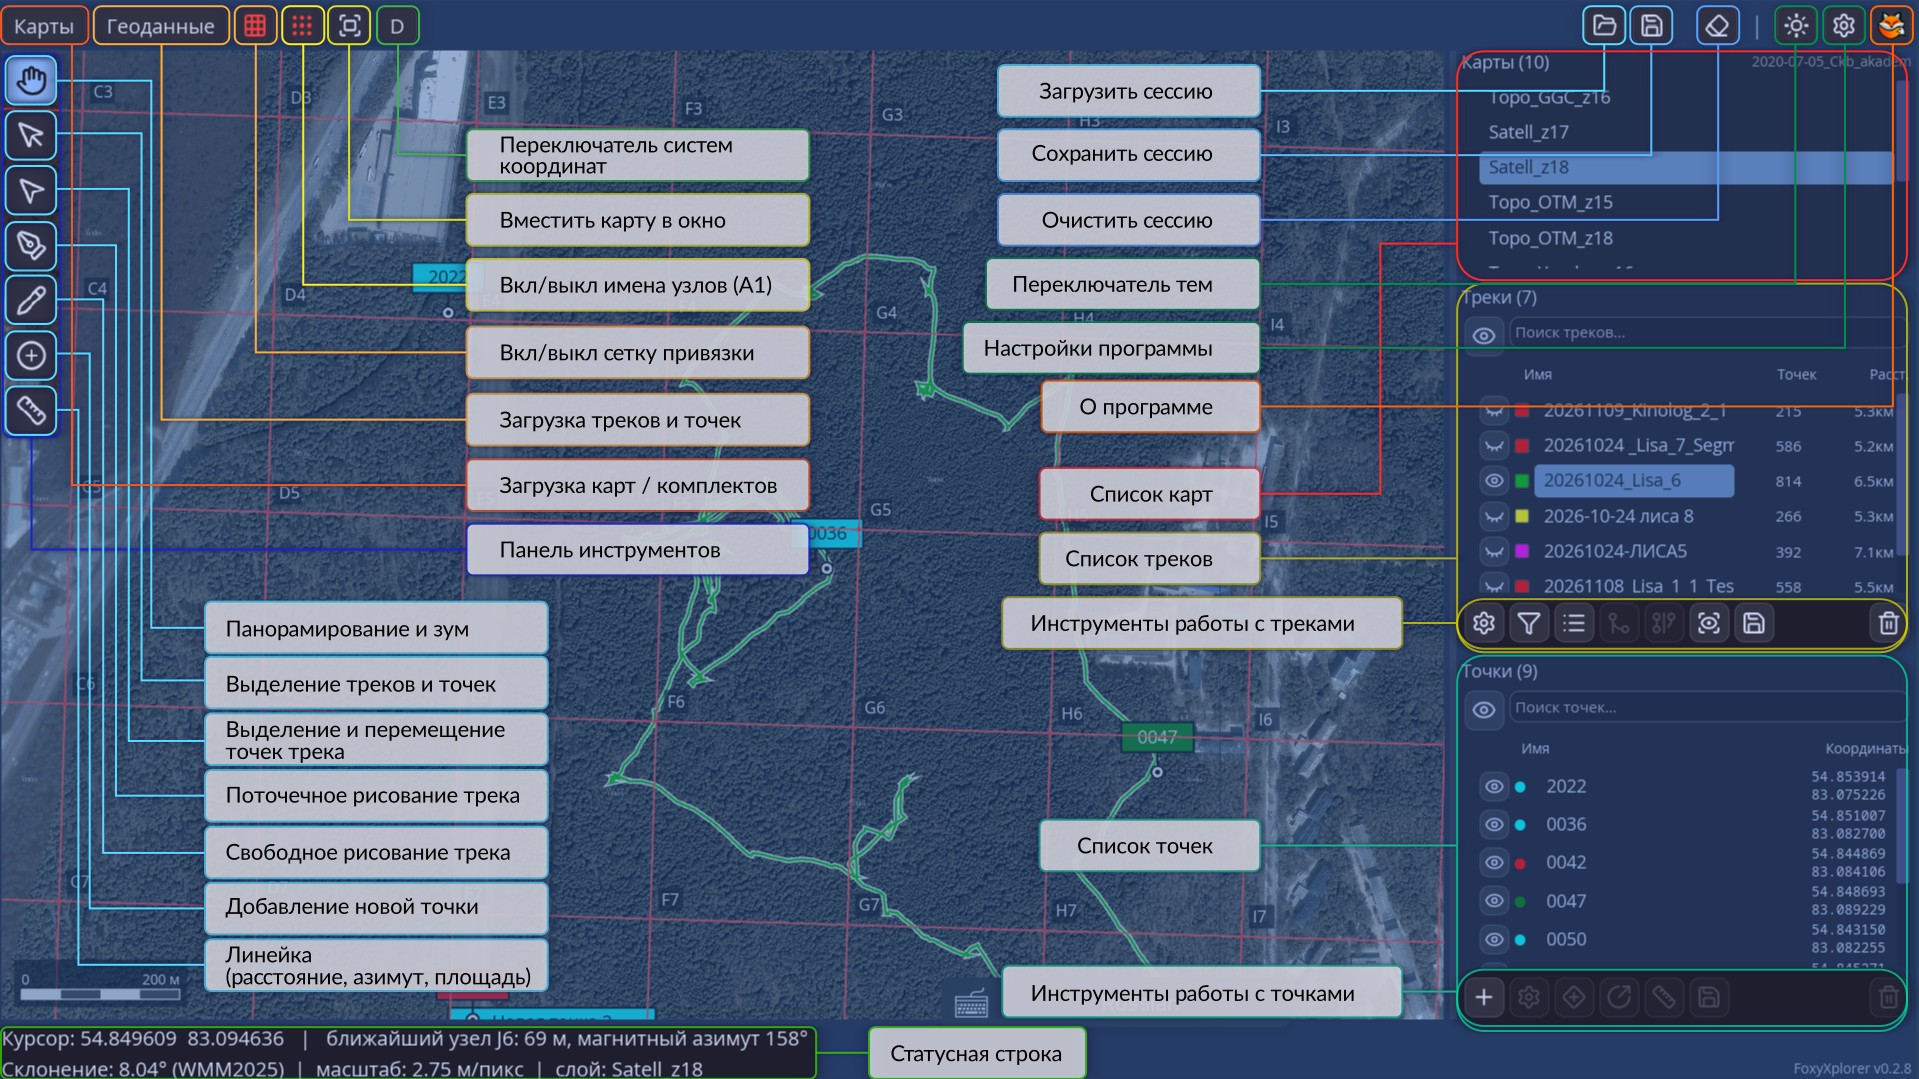
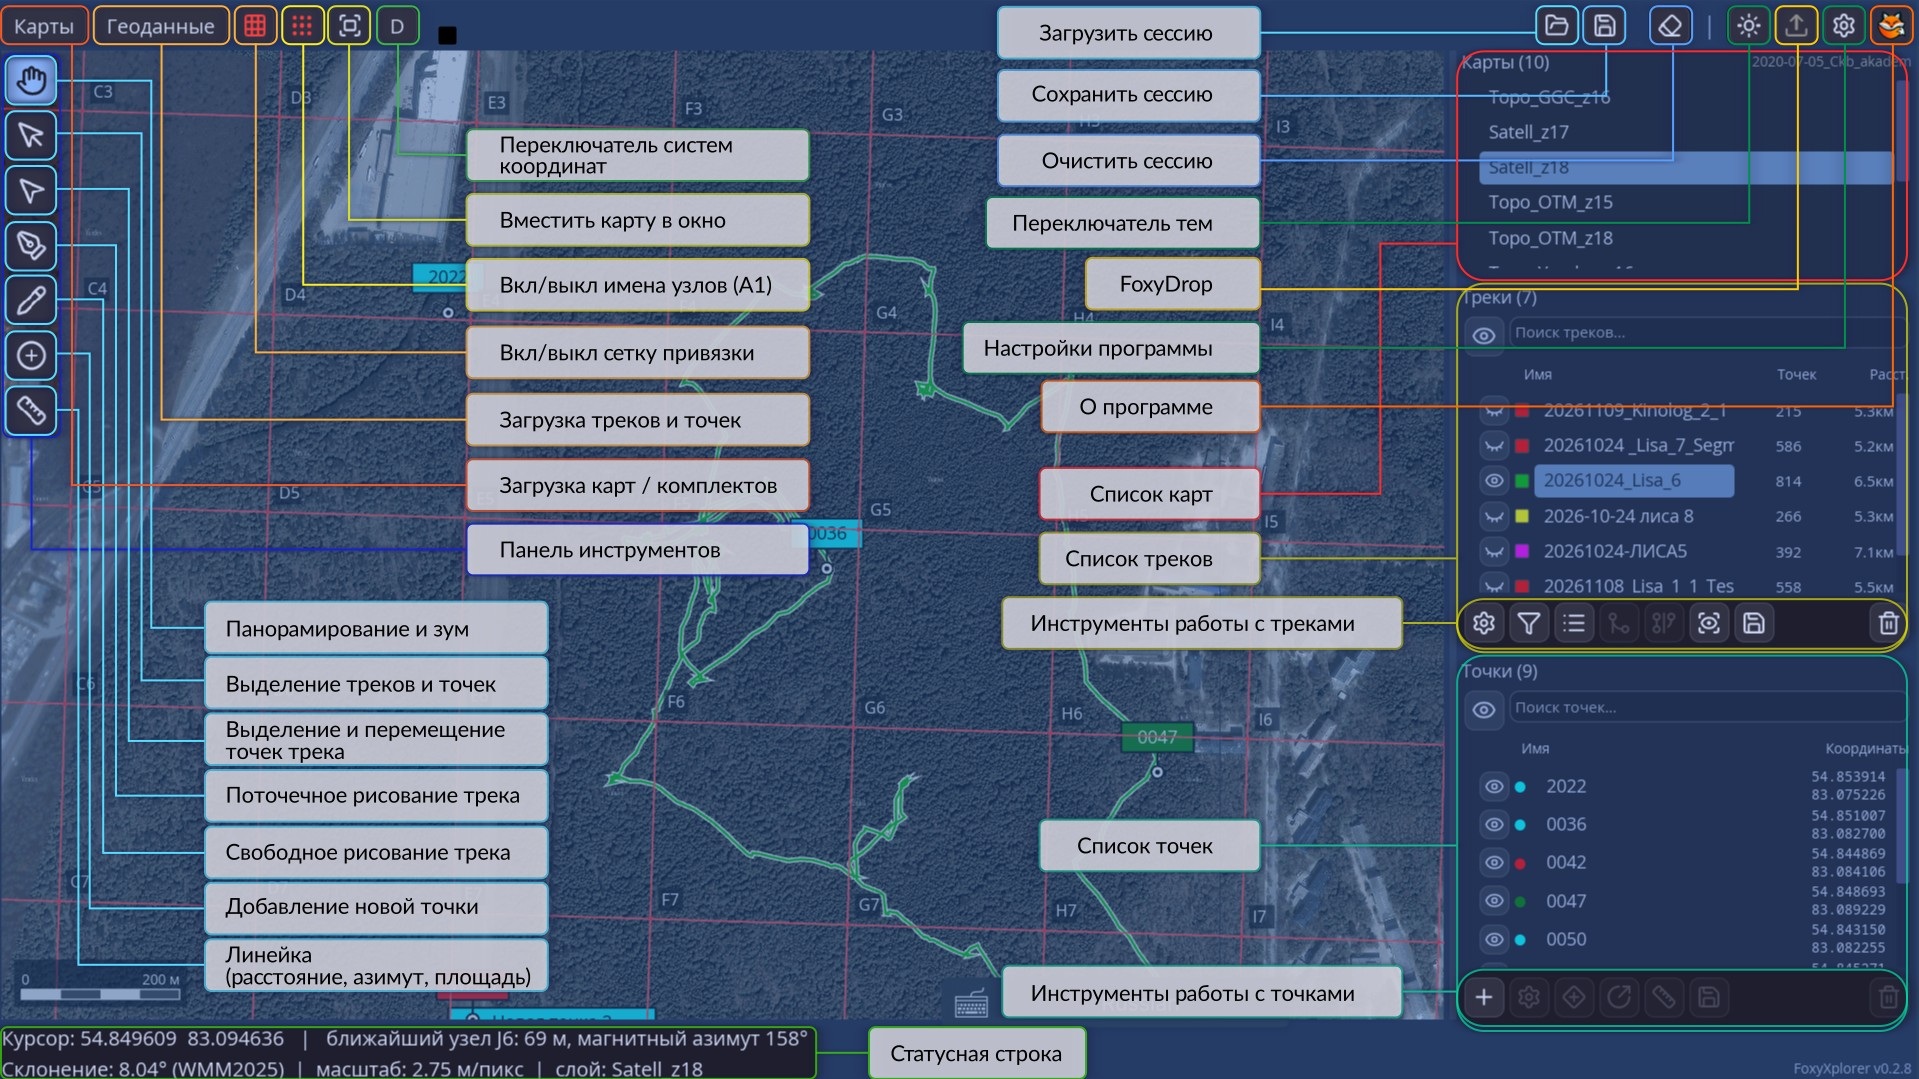
FoxyDrop docs

Changed region(s): [[0.4919, 0.0, 0.9531, 0.3058], [0.2152, 0.0306, 0.246, 0.0612]]

diff --git a/docs/user-guide.md b/docs/user-guide.md
@@ -23,6 +23,8 @@
 
 - Кнопка "Очистить сессию" позволяет удалить все содержимое, включая карты, треки и точки и начать работу с чистого листа.
 
+- Кнопка "FoxyDrop". [Подробнее здесь](FoxyDrop.md).
+
 - Кнопка "Переключение темы" позволяет переключать светлую и темную темы интерфейса
 
 - Настройки программы (язык, стартовая локация, допуск упрощения )
